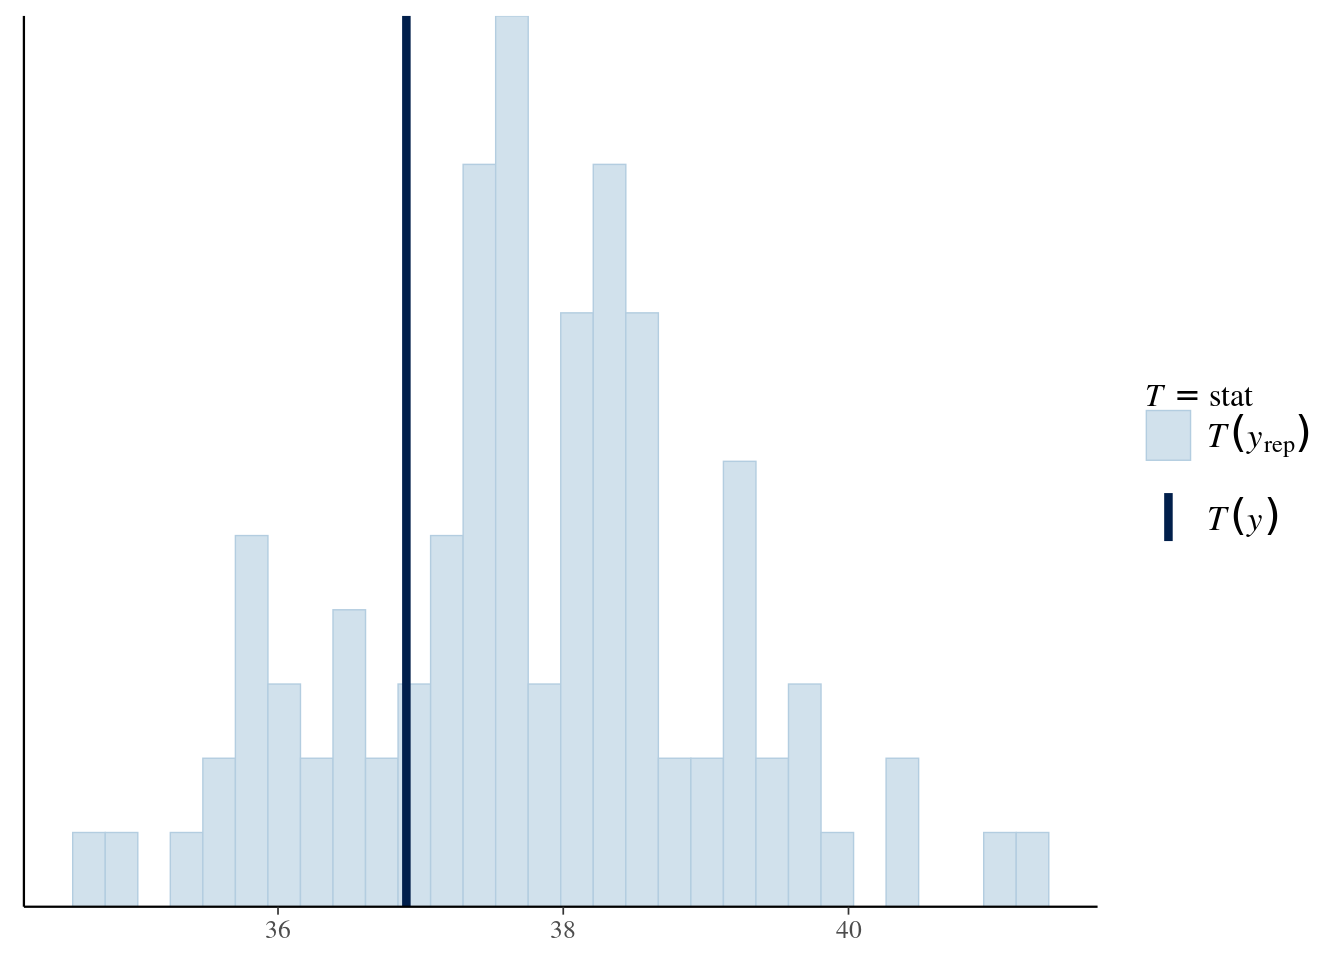
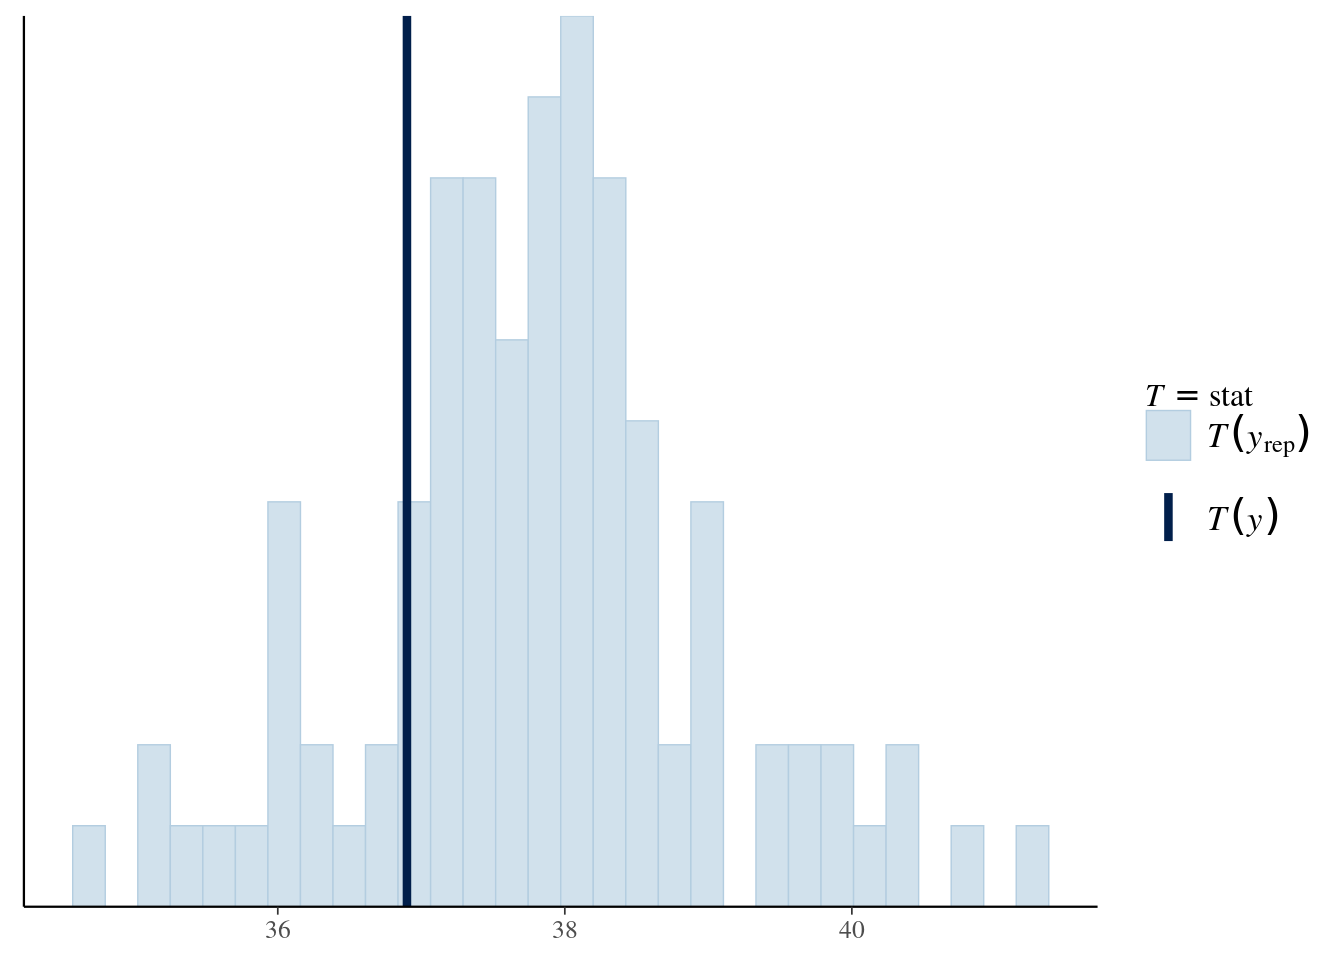
Built site for gh-pages

diff --git a/slides/EVA2023-Rsoftware-regression.html b/slides/EVA2023-Rsoftware-regression.html
@@ -531,11 +531,10 @@ f(\mathrm{X}_j) = \sum_{k=1}^K \beta_k b_k(\mathbf{X}_j)
 </section>
 <section id="software" class="slide level2">
 <h2>Software</h2>
-<p>The function <code>evgam</code> from the eponymous package <span class="citation" data-cites="Youngman:2022">(<a href="#/references" role="doc-biblioref" onclick=""><strong>Youngman:2022?</strong></a>)</span>, building on the <code>mgcv</code> package <span class="citation" data-cites="Wood:2017:mgcv">(<a href="#/references" role="doc-biblioref" onclick="">Wood, 2017</a>)</span>.</p>
+<p>Function <code>evgam</code> from the eponymous package <span class="citation" data-cites="Youngman:2022">(<a href="#/references" role="doc-biblioref" onclick="">Youngman, 2022</a>)</span> builds on the <code>mgcv</code> package <span class="citation" data-cites="Wood:2017:mgcv">(<a href="#/references" role="doc-biblioref" onclick="">Wood, 2017</a>)</span>.</p>
 <p>The setup is <code>evgam(formula, data, family, ...)</code>, where</p>
 <ul>
 <li><code>family</code> is the character string for the extreme value distribution (<code>gev</code>, <code>gpd</code>, <code>rlarg</code> and <code>ald</code> for asymmetric Laplace, used in quantile regression),</li>
-<li><code>data</code> is a data frame,</li>
 <li><code>formula</code> is a list of formula for parameters (in the order location, scale, shape).</li>
 </ul>
 </section>
@@ -552,12 +551,12 @@ f(\mathrm{X}_j) = \sum_{k=1}^K \beta_k b_k(\mathbf{X}_j)
 </section>
 <section id="example-with-evgam" class="slide level2">
 <h2>Example with <code>evgam</code></h2>
-<div class="cell" data-hash="EVA2023-Rsoftware-regression_cache/revealjs/unnamed-chunk-3_ccca168396befc3f6ff7c1440caef862">
+<div class="cell" data-hash="EVA2023-Rsoftware-regression_cache/revealjs/unnamed-chunk-3_08d6ac38d7cceab9d572f26f7c907aed">
 <div class="sourceCode cell-code" id="cb2"><pre class="sourceCode numberSource r number-lines code-with-copy"><code class="sourceCode r"><span id="cb2-1"><a href="#cb2-1"></a>opt_gev_spl <span class="ot">&lt;-</span> evgam<span class="sc">::</span><span class="fu">evgam</span>(</span>
 <span id="cb2-2"><a href="#cb2-2"></a>  <span class="at">data =</span> <span class="fu">data.frame</span>(</span>
 <span id="cb2-3"><a href="#cb2-3"></a>    <span class="at">syear =</span> <span class="fu">scale</span>(years),</span>
 <span id="cb2-4"><a href="#cb2-4"></a>    <span class="at">ymax =</span> ymax),</span>
-<span id="cb2-5"><a href="#cb2-5"></a>  <span class="at">formula =</span> <span class="fu">list</span>(ymax <span class="sc">~</span> <span class="fu">s</span>(syear, <span class="at">k =</span> <span class="dv">5</span>, <span class="at">bs =</span> <span class="st">"cr"</span>),</span>
+<span id="cb2-5"><a href="#cb2-5"></a>  <span class="at">formula =</span> <span class="fu">list</span>(ymax <span class="sc">~</span> <span class="fu">s</span>(syear, <span class="at">k =</span> <span class="dv">15</span>, <span class="at">bs =</span> <span class="st">"cr"</span>),</span>
 <span id="cb2-6"><a href="#cb2-6"></a>                 <span class="sc">~</span> <span class="dv">1</span>, </span>
 <span id="cb2-7"><a href="#cb2-7"></a>                 <span class="sc">~</span> <span class="dv">1</span>),</span>
 <span id="cb2-8"><a href="#cb2-8"></a>  <span class="at">family =</span> <span class="st">"gev"</span>)</span></code><button title="Copy to Clipboard" class="code-copy-button"><i class="bi"></i></button></pre></div>
@@ -566,7 +565,7 @@ f(\mathrm{X}_j) = \sum_{k=1}^K \beta_k b_k(\mathbf{X}_j)
 <section>
 <section id="evgam-output" class="title-slide slide level1 center">
 <h1><code>evgam</code> output</h1>
-<div class="cell" data-hash="EVA2023-Rsoftware-regression_cache/revealjs/unnamed-chunk-4_97373a5b000ec2f409409d9f7e71bd0d">
+<div class="cell" data-hash="EVA2023-Rsoftware-regression_cache/revealjs/unnamed-chunk-4_69a2c2ef040fad54e528c79db3df0302">
 <div class="sourceCode cell-code" id="cb3"><pre class="sourceCode numberSource r number-lines code-with-copy"><code class="sourceCode r"><span id="cb3-1"><a href="#cb3-1"></a><span class="do">## Summary with coefficients</span></span>
 <span id="cb3-2"><a href="#cb3-2"></a><span class="fu">summary</span>(opt_gev_spl)</span></code><button title="Copy to Clipboard" class="code-copy-button"><i class="bi"></i></button></pre></div>
 <div class="cell-output cell-output-stdout">
@@ -591,13 +590,19 @@ location
           edf max.df Chi.sq Pr(&gt;|t|)
 s(syear) 2.25      4   5.62   0.0776</code></pre>
 </div>
-<div class="sourceCode cell-code" id="cb5"><pre class="sourceCode numberSource r number-lines code-with-copy"><code class="sourceCode r"><span id="cb5-1"><a href="#cb5-1"></a><span class="do">## Plot splines (if any)</span></span>
-<span id="cb5-2"><a href="#cb5-2"></a><span class="fu">plot</span>(opt_gev_spl)</span></code><button title="Copy to Clipboard" class="code-copy-button"><i class="bi"></i></button></pre></div>
-
-<div class="sourceCode cell-code" id="cb6"><pre class="sourceCode numberSource r number-lines code-with-copy"><code class="sourceCode r"><span id="cb6-1"><a href="#cb6-1"></a><span class="do">## Fitted value, depend on covariates</span></span>
-<span id="cb6-2"><a href="#cb6-2"></a><span class="co"># predict(opt_gev_spl)</span></span></code><button title="Copy to Clipboard" class="code-copy-button"><i class="bi"></i></button></pre></div>
 </div>
-<img data-src="EVA2023-Rsoftware-regression_files/figure-revealjs/unnamed-chunk-4-1.png" width="960" class="r-stretch"></section>
+</section>
+<section id="fitted-splines" class="slide level2">
+<h2>Fitted splines</h2>
+<div class="cell" data-hash="EVA2023-Rsoftware-regression_cache/revealjs/fig-splines_72bfd8cb28f5e444be46540a399ddd43">
+<div class="sourceCode cell-code" id="cb5"><pre class="sourceCode numberSource r number-lines code-with-copy"><code class="sourceCode r"><span id="cb5-1"><a href="#cb5-1"></a><span class="fu">plot</span>(opt_gev_spl)</span></code><button title="Copy to Clipboard" class="code-copy-button"><i class="bi"></i></button></pre></div>
+
+</div>
+<img data-src="EVA2023-Rsoftware-regression_files/figure-revealjs/fig-splines-1.png" style="width:60.0%" class="r-stretch quarto-figure-center"><p class="caption">Figure&nbsp;1: Fitted spline for location parameter of GEV.</p></section>
+<section id="estimated-quantiles" class="slide level2">
+<h2>Estimated quantiles</h2>
+<p>For given <span class="math inline">\(p\)</span>, solve nonlinear equation <span class="math display">\[\prod_{i=1}^n F^N(z; \boldsymbol{\theta}_i, \mathbf{X}_i) = p\]</span> using <code>qev</code> to give unconditional quantile.</p>
+</section>
 <section id="references" class="slide level2 smaller scrollable">
 <h2>References</h2>
 
@@ -616,6 +621,9 @@ Wood, S. N. (2017). <em>Generalized additive models: An introduction with <stron
 </div>
 <div id="ref-Wood.Pya.Safken:2016" class="csl-entry" role="listitem">
 Wood, S. N., Pya, N., &amp; Säfken, B. (2016). Smoothing parameter and model selection for general smooth models. <em>Journal of the American Statistical Association</em>, <em>111</em>(516), 1548–1563. <a href="https://doi.org/10.1080/01621459.2016.1180986">https://doi.org/10.1080/01621459.2016.1180986</a>
+</div>
+<div id="ref-Youngman:2022" class="csl-entry" role="listitem">
+Youngman, B. D. (2022). <code>evgam</code>: An <span>R</span> package for generalized additive extreme value models. <em>Journal of Statistical Software</em>, <em>103</em>(1), 1–26. <a href="https://doi.org/10.18637/jss.v103.i03">https://doi.org/10.18637/jss.v103.i03</a>
 </div>
 </div>
 </section></section>

diff --git a/content/bayesian.html b/content/bayesian.html
@@ -270,13 +270,13 @@ p(\boldsymbol{\theta} \mid \boldsymbol{Y}) = \frac{p(\boldsymbol{Y} \mid \boldsy
 <span id="cb3-17"><a href="#cb3-17" aria-hidden="true" tabindex="-1"></a><span class="fu">quantile</span>(post_gev_mean, <span class="fu">c</span>(<span class="fl">0.25</span>, <span class="fl">0.5</span>, <span class="fl">0.75</span>))</span></code><button title="Copy to Clipboard" class="code-copy-button"><i class="bi"></i></button></pre></div>
 <div class="cell-output cell-output-stdout">
 <pre><code>     25%      50%      75% 
-59.22068 67.17322 82.29860 </code></pre>
+59.33544 67.23619 81.93521 </code></pre>
 </div>
 <div class="sourceCode cell-code" id="cb5"><pre class="sourceCode r code-with-copy"><code class="sourceCode r"><span id="cb5-1"><a href="#cb5-1" aria-hidden="true" tabindex="-1"></a><span class="co"># To get a 95% credible interval, simply compute quantiles</span></span>
 <span id="cb5-2"><a href="#cb5-2" aria-hidden="true" tabindex="-1"></a><span class="fu">quantile</span>(post_gev_mean, <span class="fu">c</span>(<span class="fl">0.025</span>, <span class="fl">0.975</span>))</span></code><button title="Copy to Clipboard" class="code-copy-button"><i class="bi"></i></button></pre></div>
 <div class="cell-output cell-output-stdout">
 <pre><code>     2.5%     97.5% 
- 52.03411 164.80314 </code></pre>
+ 52.01491 164.00468 </code></pre>
 </div>
 </div>
 <p>We can see that the credible intervals are quite asymmetric.</p>
@@ -291,7 +291,7 @@ p(\boldsymbol{\theta} \mid \boldsymbol{Y}) = \frac{p(\boldsymbol{Y} \mid \boldsy
 <span id="cb7-7"><a href="#cb7-7" aria-hidden="true" tabindex="-1"></a><span class="fu">summary</span>(post_pred_samp)</span></code><button title="Copy to Clipboard" class="code-copy-button"><i class="bi"></i></button></pre></div>
 <div class="cell-output cell-output-stdout">
 <pre><code>   Min. 1st Qu.  Median    Mean 3rd Qu.    Max. 
-  42.22   49.66   52.79   55.67   57.67 1036.33 </code></pre>
+  41.74   49.62   52.75   55.52   57.78  579.66 </code></pre>
 </div>
 </div>
 <p>As part of the Bayesian workflow <span class="citation" data-cites="Gabry:2019">(<a href="#ref-Gabry:2019" role="doc-biblioref">Gabry et al., 2019</a>)</span>, we can also check if our model is in line with expectations by computing a summary statistic on simulate datasets from the posterior predictive, and comparing it with that of the original data. If the value for the original sample lies far into the tails of the distribution of simulated samples, this provides evidence of model misspecification.</p>
